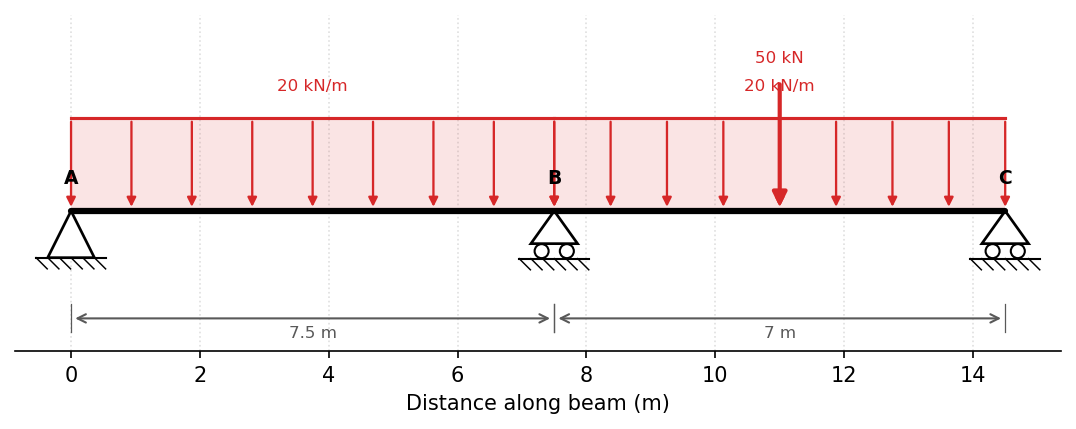
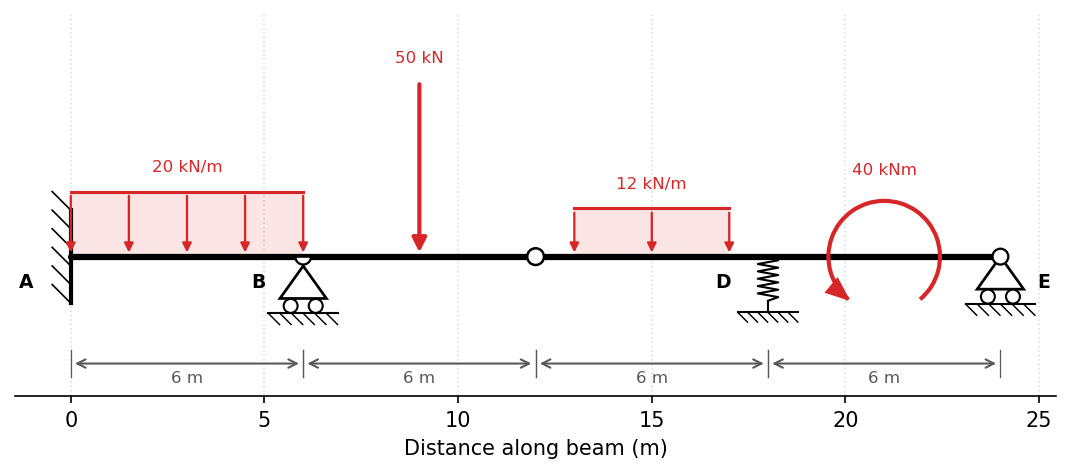
Refine beam schematic rendering per review feedback
- Node letters sit below the beam, offset left/right, clear of the loads
  (above) and the support symbols (below), in both backends.
- A little pin on every pin/roller support: a full circle at an end support;
  at an internal support a half-circle - poking above the beam in TikZ (per the
  doc example figures) and seated below the beam on the support in matplotlib.
- matplotlib: smaller distributed-load band and taller point-load arrows;
  TikZ: longer point-load arrows (the stanli default was too short) - so the
  magnitude labels no longer overlap.
- The documented "Visualising the Beam and Loads" example now exercises every
  support type (encastre, roller, internal hinge and a spring) plus a UDL,
  point load, partial UDL and moment; figures regenerated to match, guarded by
  a new test.

diff --git a/src/pycba/render.py b/src/pycba/render.py
@@ -327,16 +327,20 @@ class BeamPlotter:
             self._draw_moment_mpl(ax, m, 0.06 * L, sh, color, load_values)
 
         if labels:
+            # Node letters sit just below the beam and offset to one side, so
+            # they clear the loads (above) and the support symbol (directly
+            # below): to the right for the right-hand end, to the left otherwise.
             for s in self.supports:
+                right = s.at_right_end
                 ax.text(
-                    s.x,
-                    0.5 * sh,
+                    s.x + (0.8 * sh if right else -0.8 * sh),
+                    -0.55 * sh,
                     chr(ord("A") + s.node),
-                    ha="center",
-                    va="bottom",
+                    ha="left" if right else "right",
+                    va="center",
                     fontsize=9,
                     fontweight="bold",
-                    zorder=7,
+                    zorder=8,
                 )
 
         if dimensions:
@@ -345,9 +349,9 @@ class BeamPlotter:
         # Axes cosmetics: labelled x, no meaningful y
         load_top = [0.0]
         if self.point_loads:
-            load_top.append(0.14 * L)
+            load_top.append(0.19 * L)
         if self.dist_loads:
-            load_top.append(0.10 * L)
+            load_top.append(0.07 * L)
         if self.moment_loads:
             load_top.append(0.06 * L)
         any_loads = self.point_loads or self.dist_loads or self.moment_loads
@@ -369,41 +373,52 @@ class BeamPlotter:
         from matplotlib.patches import Circle, Polygon
 
         x = s.x
-        if s.kind == PIN:
-            ax.add_patch(
-                Polygon(
-                    [[x, 0], [x - 0.5 * sh, -sh], [x + 0.5 * sh, -sh]],
-                    closed=True,
-                    fc="white",
-                    ec="k",
-                    lw=1.3,
-                    zorder=4,
-                )
-            )
-            self._ground_mpl(ax, x, -sh, 1.5 * sh)
-        elif s.kind == ROLLER:
-            ax.add_patch(
-                Polygon(
-                    [[x, 0], [x - 0.5 * sh, -0.7 * sh], [x + 0.5 * sh, -0.7 * sh]],
-                    closed=True,
-                    fc="white",
-                    ec="k",
-                    lw=1.3,
-                    zorder=4,
-                )
-            )
-            for dx in (-0.27 * sh, 0.27 * sh):
+        if s.kind in (PIN, ROLLER):
+            end = s.at_left_end or s.at_right_end
+            # Internal supports are seated a touch below the beam so the pin
+            # half-disc marker reads clearly below the beam line; end supports
+            # sit at the beam with a full-circle pin straddling it.
+            top = 0.0 if end else -0.20 * sh
+            if s.kind == PIN:
                 ax.add_patch(
-                    Circle(
-                        (x + dx, -0.86 * sh),
-                        0.15 * sh,
+                    Polygon(
+                        [[x, top], [x - 0.5 * sh, top - sh], [x + 0.5 * sh, top - sh]],
+                        closed=True,
                         fc="white",
                         ec="k",
-                        lw=1.0,
+                        lw=1.3,
                         zorder=4,
                     )
                 )
-            self._ground_mpl(ax, x, -1.02 * sh, 1.5 * sh)
+                self._ground_mpl(ax, x, top - sh, 1.5 * sh)
+            else:  # ROLLER
+                ax.add_patch(
+                    Polygon(
+                        [
+                            [x, top],
+                            [x - 0.5 * sh, top - 0.7 * sh],
+                            [x + 0.5 * sh, top - 0.7 * sh],
+                        ],
+                        closed=True,
+                        fc="white",
+                        ec="k",
+                        lw=1.3,
+                        zorder=4,
+                    )
+                )
+                for dx in (-0.27 * sh, 0.27 * sh):
+                    ax.add_patch(
+                        Circle(
+                            (x + dx, top - 0.86 * sh),
+                            0.15 * sh,
+                            fc="white",
+                            ec="k",
+                            lw=1.0,
+                            zorder=4,
+                        )
+                    )
+                self._ground_mpl(ax, x, top - 1.02 * sh, 1.5 * sh)
+            self._pin_marker_mpl(ax, x, sh, end)
         elif s.kind == FIXED:
             side = 1 if s.at_right_end else -1
             ax.plot([x, x], [-sh, sh], "k-", lw=2, zorder=4)
@@ -437,6 +452,21 @@ class BeamPlotter:
             )
             self._ground_mpl(ax, x, -0.6 * sh, 1.3 * sh)
 
+    def _pin_marker_mpl(self, ax, x: float, sh: float, end: bool):
+        """Little pin at a pin/roller support: full circle at an end, a
+        half-disc below the beam (seated on the support) at an internal one."""
+        from matplotlib.patches import Circle, Wedge
+
+        r = 0.17 * sh
+        if end:
+            ax.add_patch(
+                Circle((x, 0), r, fc="white", ec="k", lw=1.1, zorder=7)
+            )
+        else:
+            ax.add_patch(
+                Wedge((x, 0), r, 180, 360, fc="white", ec="k", lw=1.1, zorder=7)
+            )
+
     def _ground_mpl(self, ax, xc: float, ytop: float, width: float, n: int = 6):
         """A hatched ground line centred at ``xc`` with its top at ``ytop``."""
         ax.plot(
@@ -468,7 +498,7 @@ class BeamPlotter:
 
     # --- matplotlib load glyphs ---------------------------------------- #
     def _draw_point_mpl(self, ax, p: PointLoad, pmax: float, sh, color, show_val):
-        length = 0.14 * self.L * (0.45 + 0.55 * abs(p.P) / pmax if pmax else 1.0)
+        length = 0.19 * self.L * (0.55 + 0.45 * abs(p.P) / pmax if pmax else 1.0)
         x = p.x
         tail_y = length if p.P >= 0 else -length
         ax.annotate(
@@ -493,7 +523,7 @@ class BeamPlotter:
     def _draw_dist_mpl(self, ax, d: DistLoad, wmax: float, color, show_val):
         from matplotlib.patches import Polygon
 
-        w_h = 0.10 * self.L
+        w_h = 0.07 * self.L
 
         def height(w):
             if not wmax:
@@ -691,7 +721,13 @@ class BeamPlotter:
         if labels:
             lines.append("\t% Labels")
             for s in self.supports:
-                pos = "above right" if s.at_right_end else "above left"
+                # Offset below and to one side so the letter clears the loads
+                # (above) and the support symbol (directly below).
+                pos = (
+                    "below right=1mm and 4mm"
+                    if s.at_right_end
+                    else "below left=1mm and 4mm"
+                )
                 letter = chr(ord("A") + s.node)
                 lines.append(
                     f"\t\\notation{{1}}{{{nodes[s.node]}}}{{${letter}$}}[{pos}];"
@@ -777,16 +813,24 @@ class BeamPlotter:
 
     def _hinges_tikz(self, nodes: List[str]) -> List[str]:
         out: List[str] = []
-        # Pin marker at simply-supported extremities (matches the doc figures)
+        support_nodes = set()
+        # Little pin at every pin/roller support: a full circle at an end
+        # support, and a half-circle (clipped to the member side) at an internal
+        # support - matching the doc examples (e.g. B in intro_ex_1).
         for s in self.supports:
-            if s.kind in (PIN, ROLLER) and (s.at_left_end or s.at_right_end):
-                out.append(f"\\hinge{{1}}{{{nodes[s.node]}}};")
-        # Internal moment releases
+            if s.kind in (PIN, ROLLER):
+                i = s.node
+                support_nodes.add(i)
+                if s.at_left_end or s.at_right_end:
+                    out.append(f"\\hinge{{1}}{{{nodes[i]}}};")
+                else:
+                    out.append(
+                        f"\\hinge{{2}}{{{nodes[i]}}}[{nodes[i - 1]}][{nodes[i + 1]}];"
+                    )
+        # Free internal moment-release hinges (not at a support) are full circles.
         for h in self.hinges:
-            i = h.node
-            out.append(
-                f"\\hinge{{2}}{{{nodes[i]}}}[{nodes[i - 1]}][{nodes[i + 1]}];"
-            )
+            if h.node not in support_nodes:
+                out.append(f"\\hinge{{1}}{{{nodes[h.node]}}};")
         return out
 
     def _span_fraction(self, i_span: int, x: float) -> float:
@@ -827,10 +871,13 @@ class BeamPlotter:
             f = self._span_fraction(p.i_span, p.x)
             ang = "90" if p.P >= 0 else "270"
             out.append(f"\\node (pl{k}) at ($({ni})!{f:g}!({nj})$){{}};")
-            out.append(f"\\begin{{scope}}[color=red]\\load{{1}}{{pl{k}}}[{ang}]\\end{{scope}}")
+            # 4th arg lengthens the force arrow (default \forceLength is short).
+            out.append(
+                f"\\begin{{scope}}[color=red]\\load{{1}}{{pl{k}}}[{ang}][18mm]\\end{{scope}}"
+            )
             if show_val:
                 out.append(
-                    f"\\notation{{1}}{{pl{k}}}{{${abs(p.P):g}$ kN}}[above=12mm];"
+                    f"\\notation{{1}}{{pl{k}}}{{${abs(p.P):g}$ kN}}[above=20mm];"
                 )
 
         for k, m in enumerate(self.moment_loads):

diff --git a/tests/test_render.py b/tests/test_render.py
@@ -76,6 +76,31 @@ def test_internal_hinge_inferred_from_eletype():
     assert [round(h.x, 1) for h in bp.hinges] == [40.0]
 
 
+def test_showcase_beam_all_features():
+    # The documented showcase: encastre + rollers + spring + internal hinge,
+    # with a UDL, point load, partial UDL and moment.
+    L, EI, R, eType = parse_beam_string("E6R6H6R6R")
+    R[6] = 2000.0  # node 3 -> vertical spring support
+    beam = cba.Beam(
+        L,
+        EI,
+        R,
+        eletype=eType,
+        LM=[[1, 1, 20], [2, 2, 50, 3.0], [3, 3, 12, 1.0, 4.0], [4, 4, 40, 3.0]],
+    )
+    bp = BeamPlotter(beam)
+    assert [s.kind for s in bp.supports] == [FIXED, ROLLER, SPRING, ROLLER]
+    assert [round(h.x, 1) for h in bp.hinges] == [12.0]
+    # Both backends render the full beam without error.
+    ax = beam.plot()
+    assert ax.patches
+    plt.close(ax.figure)
+    tx = beam.to_tikz()
+    assert tx.count(r"\support") == 4
+    assert r"\support{4}" in tx and r"\support{5}" in tx  # fixed + spring
+    assert r"\hinge" in tx
+
+
 # --------------------------------------------------------------------------- #
 # Load normalisation
 # --------------------------------------------------------------------------- #

diff --git a/docs/source/general.md b/docs/source/general.md
@@ -252,14 +252,28 @@ spring. Internal moment releases are read from `eleType` and drawn as hinges.
 ### Native matplotlib
 
 `Beam.plot()` draws the schematic on labelled axes (distance along the beam) and
-returns the `matplotlib` `Axes` for further customisation:
+returns the `matplotlib` `Axes` for further customisation. The beam below
+exercises every support type — an encastré (`E`), rollers (`R`), an internal
+hinge (`H`) and a spring set directly on the restraint vector — together with a
+UDL, a point load, a partial UDL and a moment:
 
 ```python
 import pycba as cba
 
-(L, EI, R, eType) = cba.parse_beam_string("P7.5R7.0R")
-beam = cba.Beam(L, EI, R, LM=[[1, 1, 20], [2, 1, 20], [2, 2, 50, 3.5]],
-                eletype=eType)
+(L, EI, R, eType) = cba.parse_beam_string("E6R6H6R6R")
+R[6] = 2000.0  # node 3: vertical spring support (stiffness in kN/m)
+beam = cba.Beam(
+    L,
+    EI,
+    R,
+    eletype=eType,
+    LM=[
+        [1, 1, 20],            # UDL on span 1
+        [2, 2, 50, 3.0],       # point load on span 2
+        [3, 3, 12, 1.0, 4.0],  # partial UDL on span 3
+        [4, 4, 40, 3.0],       # moment on span 4
+    ],
+)
 
 ax = beam.plot()            # supports, loads, span dimensions and labels
 ```